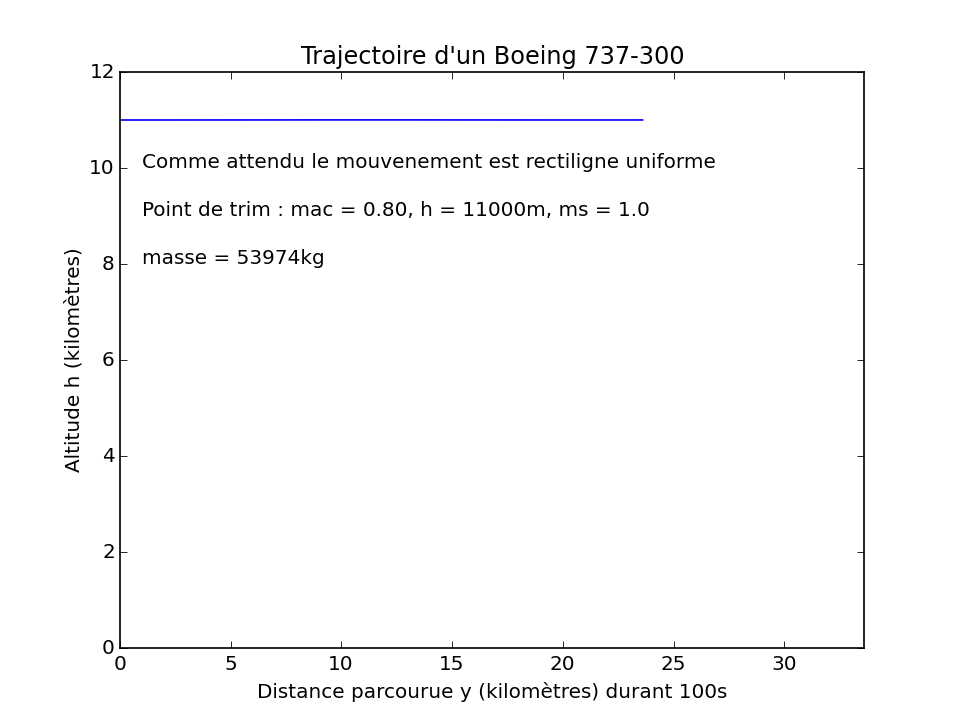
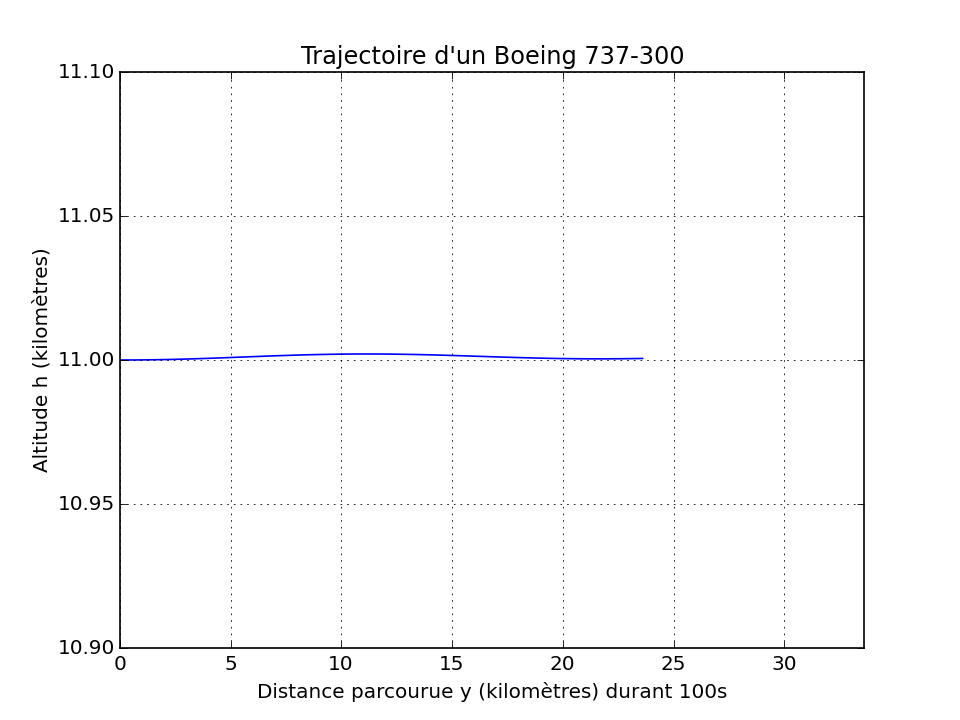
début séance 3

diff --git a/seance3.py b/seance3.py
@@ -137,8 +137,8 @@ def v_propre(h_tuple, mac_tuple, km_tuple, ms_tuple):
 tout = v_propre(h_tuple, mac_tuple, km_tuple, ms_tuple)  # on récupere "tout"
 vp = tout[0]  # on choisit uniquement les val propres, pas les vecteurs
 pt_trim =  (11000.0, 0.8, 0.9, 1.0)
-vap1=vp[pt_trim] # on choisit un seul point de trim
-
+vap1=vp[pt_trim] # on choisit les val propres d'un seul point de trim
+# print(type(vap1))
 vep = tout[1]  # on selectionne le dico des vecteurs propres
 M = vep[pt_trim]  # on selectionne la matrice de vect propre associés au trim choisi ; M matrice de passage tq X = MX'
 # X' vecteur d'état dans la base modale
@@ -152,7 +152,7 @@ toto = tout[3]
 X,U = toto[pt_trim]
 X = np.array(X)
 U=np.array(U)
-print(type(U))
+# print(type(U))
 
 
 # print(M)
@@ -192,36 +192,34 @@ def affiche_mat(M):
 #5.2.1 - évolution sur 240s suite à une rafale de vent verticale de wh = 2 m/s induisant un nouvelle angle alpha
 # initial à partir duquel on "lache" l'avion.
 
-#calcul du nouveau vecteur d'état intial on a alpha = theta (incidence = assiette)
+#calcul du nouveau vecteur d'état intial on a alpha
 #atan(wh/vae)
 dalpha =  math.atan(2./X[dy.s_va])
 Xi=np.copy(X)
 Ui=np.copy(U)
-# Ui[dy.i_wz]+=2
 Xi[dy.s_a]+=dalpha
-Xi[dy.s_th]+=dalpha
+
 print("*******************")
-# affiche_mat(Xi)
-# affiche_mat(X)
-# print(dalpha)
 
 
 
-def trajectoire(Xi,X, U, P):
+
+def trajectoire(X, U, P):
     tt=240 # 240s
     t = np.linspace(0, tt, tt+1)
     sol = odeint(dy.dyn, X, t, (U, P))
-    soli = odeint(dy.dyn, Xi, t, (U, P))
+    # soli = odeint(dy.dyn, Xi, t, (U, P))
 
     dy.plot(t, sol, U=None, figure=None, window_title="Paramètres d'état en fonction du temps(secondes)")
-    dy.plot(t, soli, U=None, figure=None, window_title="Paramètres d'état en fonction du temps(secondes)")
+    # dy.plot(t, soli, U=None, figure=None, window_title="Paramètres d'état en fonction du temps(secondes)")
     plt.suptitle("Paramètres d'état en fonction du temps(secondes)- modèle non linéaire")
     plt.savefig('seance3/param_of_time.png', dpi=120)  # sauvegarde du graphe au format png dans le dossier images
     plt.show()
     plt.close()
 
-    plt.axis([0, max(sol[:, 0]) / 1000. + 10., 10.980, 11.020])
-    plt.plot(sol[:, 0] / 1000., sol[:, 1] /1000.)
+    plt.axis([0, max(sol[:, 0]), 10800, 11200])
+    plt.plot(sol[:, 0], sol[:, 1])
+    plt.grid(True)
     plt.xlabel("Distance parcourue y (kilomètres) durant {}s".format(tt))
     plt.ylabel("Altitude h (kilomètres)")
     plt.title("Trajectoire d'un " + P.name)
@@ -231,5 +229,18 @@ def trajectoire(Xi,X, U, P):
     plt.savefig('seance3/trajectoire.png', dpi=120)  # sauvegarde du graphe au format png dans le dossier images
     plt.show()
 
-trajectoire(Xi,X,U,P)
+# trajectoire(Xi,U,P)
+
+# modèle linéaire
+
+# dXi = Xi-X
+# print(dXi)
+dXi=np.zeros(4)
+dXi[1]=dalpha
+# print (dXi)
+#
+#calcul de M-1 l'inverse de M
+M_1=np.linalg.inv(M)
+dXip = np.dot(M_1,dXi)
+# print(dXip)
 

diff --git a/seance2.py b/seance2.py
@@ -233,8 +233,9 @@ def trajectoire(X, U, P):
     plt.show()
     plt.close()
 
-    plt.axis([0, max(sol[:, 0]) / 1000. + 10., 0, 12])
+    plt.axis([0, max(sol[:, 0]) / 1000. + 10., 10.900, 11.100])
     plt.plot(sol[:, 0] / 1000., sol[:, 1] / 1000.)
+    plt.grid(True)
     plt.xlabel("Distance parcourue y (kilomètres) durant 100s")
     plt.ylabel("Altitude h (kilomètres)")
     plt.title("Trajectoire d'un " + P.name)
@@ -245,7 +246,7 @@ def trajectoire(X, U, P):
     plt.show()
 
 
-# trajectoire(X, U, P)
+trajectoire(X, U, P)
 
 
 # 4.2.4
